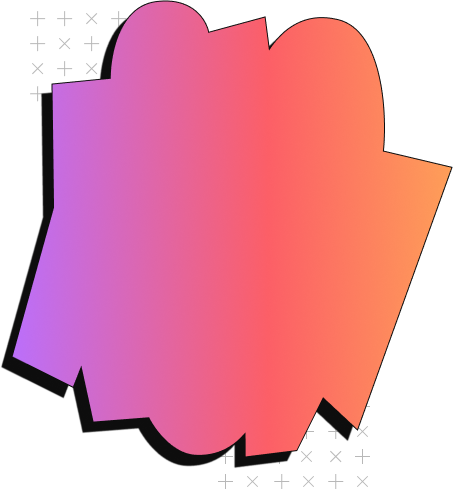
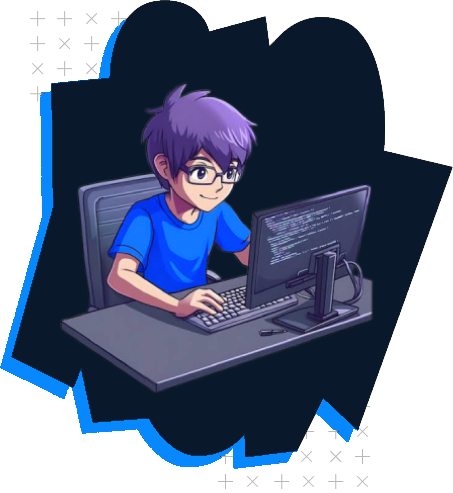
uploaded

diff --git a/main.css b/main.css
@@ -448,7 +448,7 @@ section.contact-section{
 }
 .contact-section .contact-content .contact-box h2 {
     font-size: 2.5rem;
-    font-weight: 900;
+    font-weight: 600;
 }
 .contact-section .contact-content .contact-box p {
     font-size: 1.2rem;
@@ -605,7 +605,9 @@ footer .footer-content{
     gap: 4rem;
     color: var(--white);
 }
+
 .about-section .about-content .left-content {
+    width: 40%;
     position: relative;
     display: flex;
     align-items: center;
@@ -614,17 +616,16 @@ footer .footer-content{
 
 .about-section .about-content .left-content .circle-item{
     position: absolute;
-    top: -130px;
-    left: 130px;
-    width: 100%;
-    height: 100%;
+    top: -30%;
+    left: 30%;
     z-index: -1;
+    /* background-color: yellow; */
 }
 
 .about-section .about-content .left-content .circle-item img {
     width: 100%;
     height: 100%;
-    object-fit: none;
+    object-fit: contain;
     animation: aboutRotate 20s linear infinite;
 }
 @keyframes aboutRotate {
@@ -644,5 +645,34 @@ footer .footer-content{
     height: 100%
 }
 
+.about-section .about-content .right-content {
+    width: 60%;
+}
 
+.about-section .about-content .right-content h2{
+    font-size: 2.5rem;
+    font-weight: 600;
+}
 
+.about-section .about-content .right-content p{
+    font-size: 1.1rem;
+    line-height: 1.4;
+}
+
+.about-review{
+    display: flex;
+    flex-direction: row;
+    flex-wrap: wrap;
+    gap: 2rem;
+    margin-top: 2rem;
+    color: var(--white);
+}
+.about-review .about-item {
+    background-color: var(--light-theme);
+    padding: 1.5rem;
+    border-radius: 0.5rem;
+}
+.about-review .about-item h3 {
+    font-size: 1.5rem;
+    font-weight: 600;
+}

diff --git a/index.html b/index.html
@@ -104,7 +104,23 @@
                     </div>
                 </div>
                 <div class="right-content">
-                    gfdgfdgd
+                    <h2>About Me</h2>  
+                    <p>I am a passionate web developer with a knack for creating stunning websites. I love to explore new technologies and implement them in my projects. My goal is to build user-friendly and efficient web applications that provide a great user experience.</p>
+                   
+                    <div class="about-review">
+                        <div class="about-item">
+                            <h3>5+</h3>
+                            <p>Years of experience</p>
+                        </div>
+                        <div class="about-item">
+                            <h3>500+</h3>
+                            <p>Websites Done</p>
+                        </div>
+                        <div class="about-item">
+                            <h3>105+</h3>
+                            <p>Customer</p>
+                        </div>
+                    </div>
                 </div>
             </div>
         </div>
@@ -112,7 +128,7 @@
 
 
     <!-- Contact Section -->
-    <!-- <section class="contact-section">
+    <section class="contact-section">
         <div class="container">
             <div class="contact-content">
                 <div class="contact-box">
@@ -156,7 +172,7 @@
                 </div>
             </div>
         </div>
-    </section> -->
+    </section>
 
     <!-- Footer Section -->
     <!-- <footer>

diff --git a/responsive.css b/responsive.css
@@ -233,10 +233,14 @@
     }
 
 
-
+    /* ========== About Section ===========*/
     .about-section .about-content {
         flex-direction: column;
         gap: 4rem;
+    }
+    .about-section .about-content .left-content,
+    .about-section .about-content .right-content {
+        width: 100%; 
     }
     .about-section .about-content .left-content .circle-item{
         position: absolute;
